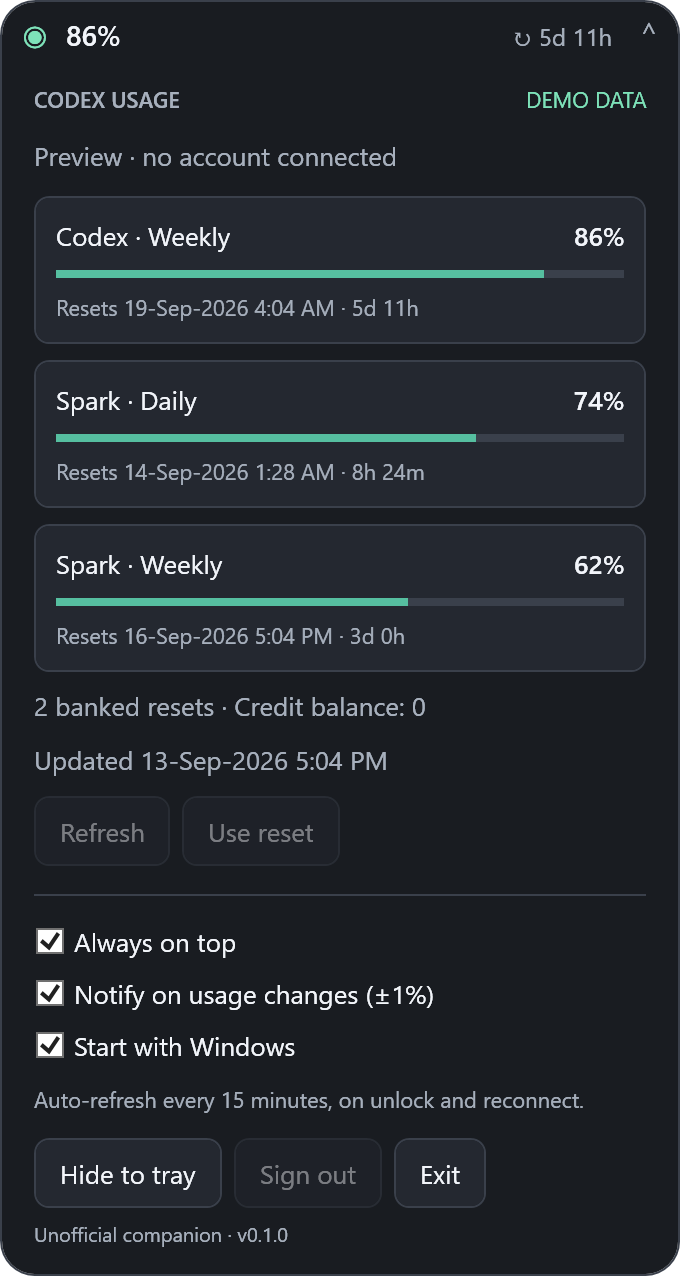
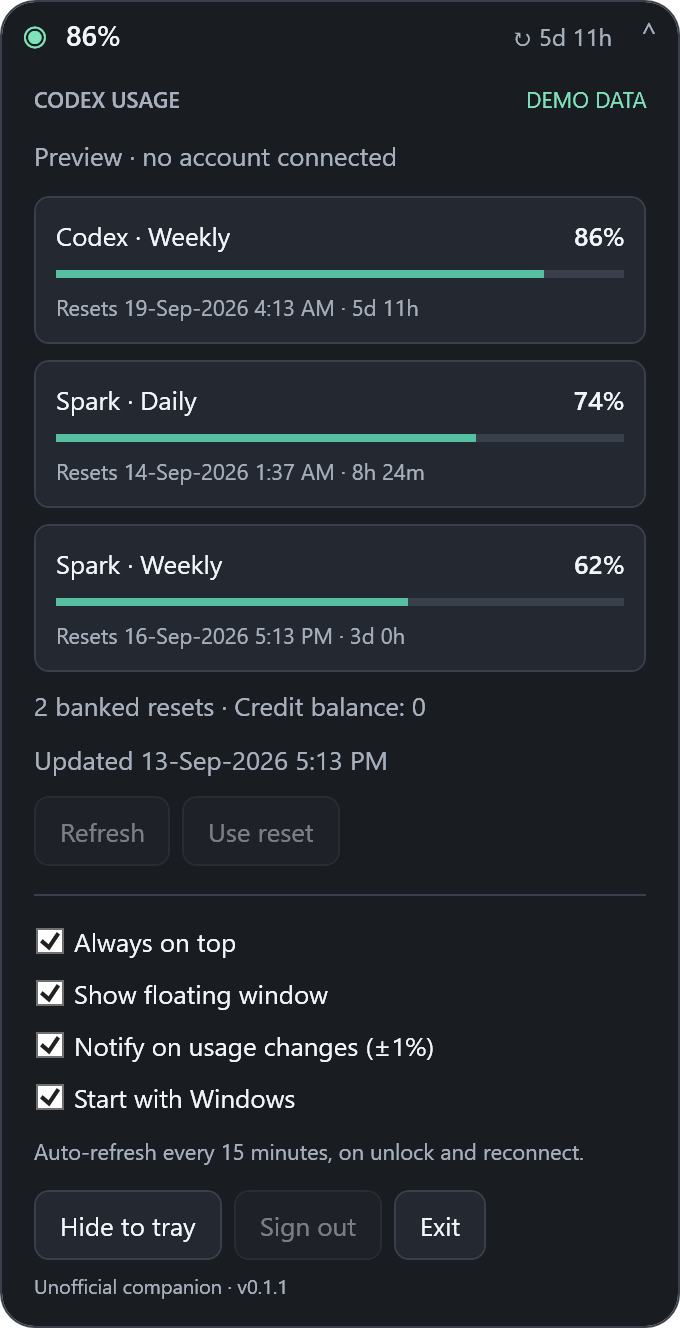
Enlarge tray digits and add persistent floating window toggle

diff --git a/src/MainWindow.xaml b/src/MainWindow.xaml
@@ -58,11 +58,12 @@
           </WrapPanel>
           <Border Height="1" Background="{DynamicResource LineBrush}" Margin="0,8,0,10"/>
           <CheckBox x:Name="PinnedCheck" Content="Always on top" Click="PinChanged"/>
+          <CheckBox x:Name="FloatingCheck" Content="Show floating window" Click="FloatingChanged"/>
           <CheckBox x:Name="NotifyCheck" Content="Notify on usage changes (±1%)" Click="NotifyChanged"/>
           <CheckBox x:Name="StartupCheck" Content="Start with Windows" Click="StartupChanged"/>
           <TextBlock Text="Auto-refresh every 15 minutes, on unlock and reconnect." TextWrapping="Wrap" Foreground="{DynamicResource MutedBrush}" FontSize="11" Margin="0,6,0,12"/>
           <WrapPanel><Button Content="Hide to tray" Click="HideClick"/><Button x:Name="SignOutButton" Content="Sign out" Click="SignOut" Visibility="Collapsed"/><Button Content="Exit" Click="ExitClick"/></WrapPanel>
-          <TextBlock Text="Unofficial companion · v0.1.0" Foreground="{DynamicResource MutedBrush}" FontSize="10"/>
+          <TextBlock Text="Unofficial companion · v0.1.1" Foreground="{DynamicResource MutedBrush}" FontSize="10"/>
         </StackPanel>
       </ScrollViewer>
     </StackPanel>

diff --git a/src/MainWindow.xaml.cs b/src/MainWindow.xaml.cs
@@ -24,6 +24,7 @@ public partial class MainWindow : Window
     private readonly bool demo;
     private readonly string? smokeOutput;
     private readonly Forms.NotifyIcon tray = new();
+    private readonly Forms.ToolStripMenuItem floatingMenu = new("Show floating window") { CheckOnClick = true };
     private readonly DispatcherTimer timer = new() { Interval = TimeSpan.FromSeconds(30) };
     private readonly CancellationTokenSource lifetime = new();
     private CancellationTokenSource? login;
@@ -44,10 +45,13 @@ public partial class MainWindow : Window
         catch (Exception e) when (e is IOException or UnauthorizedAccessException or JsonException or CryptographicException) { error = "Could not load saved data. Sign out, then sign in again."; recovery = true; }
         Topmost = settings.Pinned; PinnedCheck.IsChecked = settings.Pinned;
         NotifyCheck.IsChecked = settings.Notify;
+        FloatingCheck.IsChecked = floatingMenu.Checked = settings.Floating;
         using (var key = Registry.CurrentUser.OpenSubKey(RunKey)) StartupCheck.IsChecked = key?.GetValue("CodexUsage") != null;
         ApplyTheme(IsLightTheme());
         var menu = new Forms.ContextMenuStrip();
         menu.Items.Add("Show / hide", null, (_, _) => { if (IsVisible) Hide(); else ShowPanel(); });
+        floatingMenu.Click += (_, _) => SetFloating(floatingMenu.Checked);
+        menu.Items.Add(floatingMenu);
         menu.Items.Add("Refresh now", null, async (_, _) => await Refresh());
         menu.Items.Add("Move near taskbar", null, (_, _) => { Dock(); Show(); SaveSettings(); });
         menu.Items.Add("Exit", null, (_, _) => Close());
@@ -82,6 +86,7 @@ public partial class MainWindow : Window
         if (demo && smokeOutput == null) { usage = DemoUsage(); signedIn = true; }
         Render();
         if (!signedIn) SetExpanded(true);
+        else if (!settings.Floating) Hide();
         if (smokeOutput != null) { await RunSmoke(); return; }
         timer.Start();
         await Refresh();
@@ -112,7 +117,17 @@ public partial class MainWindow : Window
         UpdateLayout();
         Left = oldRight - ActualWidth; Top = oldBottom - ActualHeight;
         KeepVisible();
+        if (!value && !settings.Floating) Hide();
     }
+    private void SetFloating(bool enabled)
+    {
+        settings = settings with { Floating = enabled };
+        FloatingCheck.IsChecked = floatingMenu.Checked = enabled;
+        SetExpanded(false);
+        if (enabled) Show(); else Hide();
+        TrySaveSettings();
+    }
+    private void FloatingChanged(object sender, RoutedEventArgs e) => SetFloating(FloatingCheck.IsChecked == true);
     private void SaveSettings()
     {
         // Persist the compact position even if the details panel is open.
@@ -266,11 +281,18 @@ public partial class MainWindow : Window
         if (trayPercent == text) return;
         using var bitmap = new Drawing.Bitmap(32, 32);
         using (var g = Drawing.Graphics.FromImage(bitmap)) {
-            g.Clear(Drawing.Color.FromArgb(29, 42, 42)); g.TextRenderingHint = Drawing.Text.TextRenderingHint.AntiAliasGridFit;
-            using var font = new Drawing.Font("Segoe UI", text.Length > 2 ? 12 : 15, Drawing.FontStyle.Bold, Drawing.GraphicsUnit.Pixel);
-            using var format = new Drawing.StringFormat { Alignment = Drawing.StringAlignment.Center, LineAlignment = Drawing.StringAlignment.Center };
-            using var brush = new Drawing.SolidBrush(Drawing.Color.FromArgb(157, 242, 210));
-            g.DrawString(text, font, brush, new Drawing.RectangleF(0, 0, 32, 32), format);
+            g.Clear(Drawing.Color.FromArgb(20, 30, 28)); g.SmoothingMode = Drawing.Drawing2D.SmoothingMode.AntiAlias;
+            using var family = new Drawing.FontFamily("Segoe UI");
+            using var glyphs = new Drawing.Drawing2D.GraphicsPath();
+            glyphs.AddString(text, family, (int)Drawing.FontStyle.Bold, 32, Drawing.PointF.Empty, Drawing.StringFormat.GenericTypographic);
+            var bounds = glyphs.GetBounds();
+            var height = text == "—" ? 5f : 28f;
+            var width = Math.Min(30f, bounds.Width * height / bounds.Height);
+            using var transform = new Drawing.Drawing2D.Matrix(width / bounds.Width, 0, 0, height / bounds.Height,
+                (32 - width) / 2 - bounds.X * width / bounds.Width, (32 - height) / 2 - bounds.Y * height / bounds.Height);
+            glyphs.Transform(transform);
+            using var brush = new Drawing.SolidBrush(Drawing.Color.FromArgb(226, 255, 245));
+            g.FillPath(brush, glyphs);
         }
         var handle = bitmap.GetHicon();
         try { using var borrowed = Drawing.Icon.FromHandle(handle); var previous = tray.Icon; tray.Icon = (Drawing.Icon)borrowed.Clone(); previous?.Dispose(); }
@@ -289,12 +311,31 @@ public partial class MainWindow : Window
             await Dispatcher.Yield(DispatcherPriority.ApplicationIdle);
             if (ActualWidth != 340 || Details.Visibility != Visibility.Visible) throw new Exception($"Initial sign-in panel is clipped: {ActualWidth}");
             usage = DemoUsage(); signedIn = true;
+            UpdateTray("84");
+            using (var iconBitmap = tray.Icon!.ToBitmap()) {
+                var top = iconBitmap.Height; var bottom = -1;
+                for (var y = 0; y < iconBitmap.Height; y++) for (var x = 0; x < iconBitmap.Width; x++) {
+                    var pixel = iconBitmap.GetPixel(x, y);
+                    if (pixel.R > 150 && pixel.G > 150 && pixel.B > 150) { top = Math.Min(top, y); bottom = Math.Max(bottom, y); }
+                }
+                if (bottom - top + 1 < 26) throw new Exception($"Tray digits too small: {bottom - top + 1}px");
+                iconBitmap.Save(Path.Combine(smokeOutput!, "tray-84.png"));
+            }
             ApplyTheme(false); SetExpanded(false); Render(); await Dispatcher.Yield(DispatcherPriority.ApplicationIdle);
             if (Percent.Text != "86%" || Width != 190 || Details.Visibility != Visibility.Collapsed || !tray.Visible) throw new Exception("Compact view / tray");
             Capture("compact.png");
             SetExpanded(true); await Dispatcher.Yield(DispatcherPriority.ApplicationIdle);
             if (LimitCards.Children.Count != 3 || Width != 340 || Details.Visibility != Visibility.Visible) throw new Exception("Details");
             Capture("expanded.png");
+            if (FindName("FloatingCheck") is not System.Windows.Controls.CheckBox floating) throw new Exception("Missing floating window switch");
+            floating.IsChecked = false; floating.RaiseEvent(new RoutedEventArgs(System.Windows.Controls.Primitives.ButtonBase.ClickEvent));
+            if (IsVisible) throw new Exception("Floating off should hide the pill");
+            using (var savedJson = JsonDocument.Parse(JsonSerializer.Serialize(storage.Read<Settings>("settings.json"))))
+                if (savedJson.RootElement.GetProperty("Floating").GetBoolean()) throw new Exception("Floating preference was not saved");
+            ShowPanel(); SetExpanded(false); if (IsVisible) throw new Exception("Tray-only details must close without restoring a pill");
+            floating.IsChecked = true; floating.RaiseEvent(new RoutedEventArgs(System.Windows.Controls.Primitives.ButtonBase.ClickEvent));
+            if (!IsVisible || expanded) throw new Exception("Floating on should restore the compact pill");
+            SetExpanded(true);
             ((System.Windows.Controls.Button)LimitCards.Children[1]).RaiseEvent(new RoutedEventArgs(System.Windows.Controls.Button.ClickEvent));
             if (Percent.Text != "74%") throw new Exception("Limit selection");
             ApplyTheme(true); Render(); await Dispatcher.Yield(DispatcherPriority.ApplicationIdle); Capture("light.png");
@@ -304,7 +345,7 @@ public partial class MainWindow : Window
             HideClick(this, new()); if (IsVisible) throw new Exception("Hide"); ShowPanel(); if (!IsVisible) throw new Exception("Restore");
             SetExpanded(false); SaveSettings();
             var saved = storage.Read<Settings>("settings.json"); if (saved?.WindowIndex != 1 || saved.Pinned) throw new Exception("Preferences persistence");
-            File.WriteAllText(Path.Combine(smokeOutput!, "smoke-result.txt"), "PASS: initial sign-in width, compact, expand, three limit cards, select limit, light/dark render, stale indicator, pin, hide/restore, settings persistence, tray.\n");
+            File.WriteAllText(Path.Combine(smokeOutput!, "smoke-result.txt"), "PASS: initial sign-in width, large tray digits, floating on/off persistence, tray-only details, compact, expand, three limit cards, select limit, light/dark render, stale indicator, pin, hide/restore, settings persistence, tray.\n");
             Close();
         } catch (Exception e) { File.WriteAllText(Path.Combine(smokeOutput!, "smoke-result.txt"), e.ToString()); System.Windows.Application.Current.Shutdown(1); }
     }

diff --git a/src/CodexApi.cs b/src/CodexApi.cs
@@ -14,7 +14,7 @@ public class CodexApi(Storage storage, HttpClient? http = null)
     {
         using (request)
         {
-            request.Headers.UserAgent.ParseAdd("codex-usage-windows/0.1.0");
+            request.Headers.UserAgent.ParseAdd("codex-usage-windows/0.1.1");
             request.Headers.Accept.Add(new("application/json"));
             using var response = await client.SendAsync(request, ct);
             if (!response.IsSuccessStatusCode) throw new HttpRequestException($"HTTP {(int)response.StatusCode}", null, response.StatusCode);

diff --git a/src/Storage.cs b/src/Storage.cs
@@ -29,4 +29,4 @@ public class Storage(string directory)
     public void ClearSession() { File.Delete(FilePath("session.bin")); File.Delete(FilePath("usage.json")); CompleteReset(); }
     private record Pending(string AccountId, string RequestId);
 }
-public record Settings(double? Left = null, double? Top = null, bool Pinned = true, bool Notify = true, int WindowIndex = 0);
+public record Settings(double? Left = null, double? Top = null, bool Pinned = true, bool Notify = true, int WindowIndex = 0, bool Floating = true);

diff --git a/README.md b/README.md
@@ -6,7 +6,7 @@ A tiny, native Windows companion for Codex usage. Keep a **190 × 36 DIP floatin
 
 ## Download and run
 
-1. Download `Codex-Usage-Windows-v0.1.0-win-x64.exe` from [Releases](https://github.com/guberm/Codex-Usage-Windows/releases/latest).
+1. Download `Codex-Usage-Windows-v0.1.1-win-x64.exe` from [Releases](https://github.com/guberm/Codex-Usage-Windows/releases/latest).
 2. Keep it in a permanent folder and run it. Windows 10/11 x64; no separate .NET installation or administrator rights required.
 3. Click **Sign in with ChatGPT**, enter the displayed code in the browser, and authorize your account. If requested, enable device code authorization under ChatGPT **Settings → Security**.
 4. Click the header to collapse. Drag the pill where you want it. Right-click for refresh, positioning, hide and exit.
@@ -17,7 +17,8 @@ The executable is unsigned. Release checksums are provided in `SHA256SUMS.txt`.
 
 - **Floating pill:** percentage remaining, countdown, always-on-top toggle, remembered position. Choose any limit by clicking its card.
 - **Details:** all reported Codex primary/secondary and additional limits (including Spark), local reset dates, banked resets and credit balance.
-- **Tray:** a numeric remaining-percentage icon; click to show details. Launching the app again restores the existing instance.
+- **Tray:** large, bold, high-contrast remaining-percentage digits fill the icon; click to show details. Launching the app again restores the existing instance.
+- **Floating on/off:** toggle **Show floating window** in the panel or tray menu. The preference survives restart. When disabled, closing details returns to tray-only mode.
 - **Refresh:** manually, every 15 minutes, when Windows unlocks, resumes, or network connectivity returns.
 - **Notifications:** primary Codex remaining percentage changes by at least 1%; configurable in the panel. Windows notification settings / Do Not Disturb can suppress alerts.
 - **Banked resets:** each action requires confirmation. A request ID is saved before sending; an uncertain request can be retried using **Retry reset**, including when the reported credit balance has already fallen to zero.

diff --git a/RELEASE_NOTES.md b/RELEASE_NOTES.md
@@ -1,12 +1,10 @@
-First native Windows release of Codex Usage.
+Larger tray numbers and a persistent floating-window switch.
 
-- Compact floating percentage/countdown pill, inspired by the Android usage chip.
-- Expandable Codex/Spark limits, reset dates, credit balance and confirmed banked resets.
-- Numeric tray icon, position persistence, light/dark themes and optional Windows startup.
-- Automatic refresh every 15 minutes and after unlock, resume and reconnect; 1% change notifications.
-- ChatGPT device login and Windows DPAPI credential storage.
-- Persisted, account-bound request IDs for safe retries of uncertain reset requests.
+- Tray digits now fill 28 of the 32 source pixels in height (previously 11), with bold, high-contrast lettering. Windows scales the icon to its configured tray size.
+- **Show floating window** in the details panel and tray menu enables/disables the pill, with the choice saved across restarts.
+- Tray-only mode still opens details on click and hides them when collapsed.
+- Preserves your existing ChatGPT login and preferences.
 
 Download the standalone **win-x64.exe** and run it. No .NET installation required. SHA-256 checksum included. The executable is unsigned.
 
-Validation: 34 automated data/authentication/storage checks; WPF smoke test against the published executable, including initial sign-in panel sizing. Live ChatGPT sign-in confirmed by the user. Authentication fixtures and preview images use synthetic data; spending a real reset credit is not part of acceptance.
+Validation: 34 data/authentication/storage checks; published-executable WPF smoke checks include tray glyph bounds, floating on/off persistence, tray-only details, sign-in panel width, theme rendering and existing controls. Live authentication and usage fetching verified; no real reset credit was spent.
